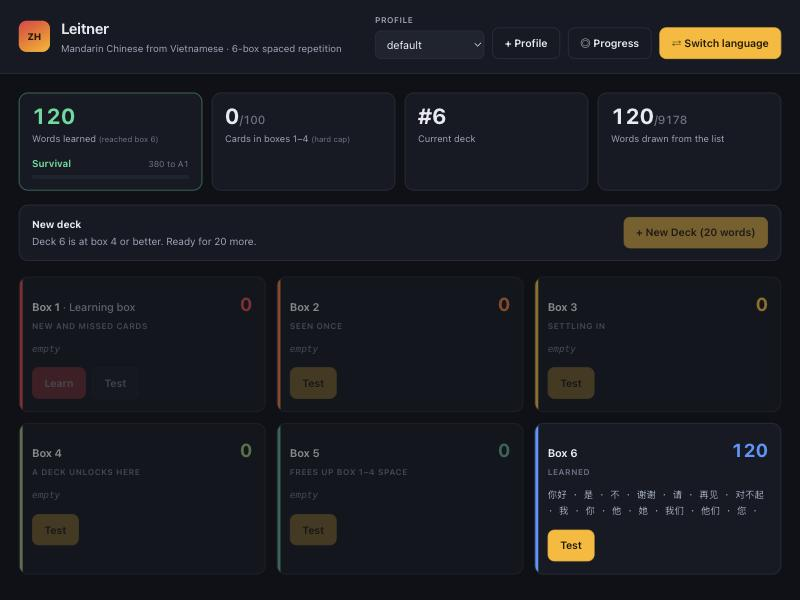
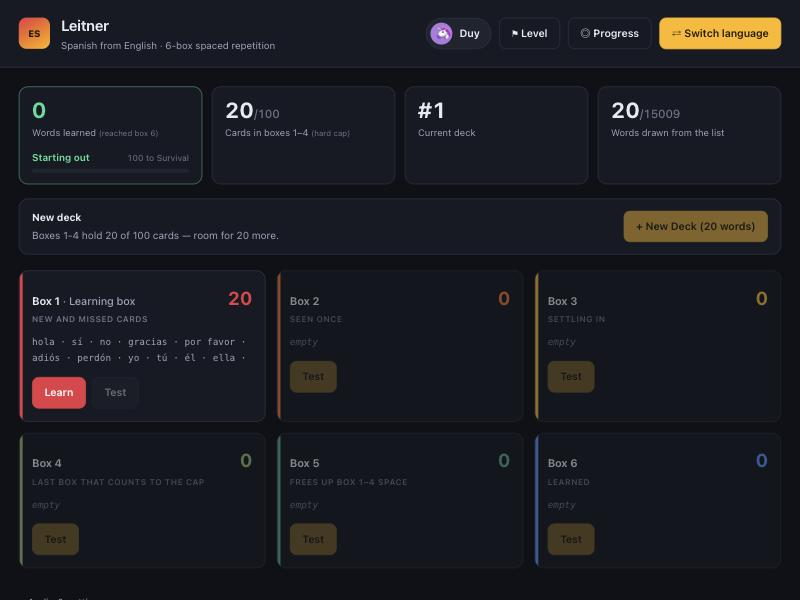
Let the 100-card cap be the only gate on a new deck
New Deck also required every card of the current deck to have reached
box 4. With one deck of 20 cards sitting in box 1 that left boxes 1-4
at 20 of 100 and the button still disabled, which reads as broken: the
cap says there is room, the button says there is not.

Drop the box-4 requirement. A new deck is offered whenever boxes 1-4
hold fewer than 100 cards, and the bar says how much room is left.

The cap stays hard. A deck is trimmed rather than allowed to cross it,
so after retiring three cards from a full set the next deck is three
words, not twenty, and the button says so.

This widens what the app allows: five decks can now be loaded straight
into box 1 without learning any of them. The cap still forces promotion
before a sixth, so the brake is intact - it just sits in one place
instead of two.

Box 4's label changes from "a deck unlocks here", which is no longer
true, to what it now does: the last box counting towards the cap.

Tests at 171, including the trimmed-deck boundary.

diff --git a/static/app.js b/static/app.js
@@ -11,7 +11,7 @@
     1: ["Learning box", "new and missed cards"],
     2: ["", "seen once"],
     3: ["", "settling in"],
-    4: ["", "a deck unlocks here"],
+    4: ["", "last box that counts to the cap"],
     5: ["", "frees up box 1–4 space"],
     6: ["", "learned"]
   };
@@ -602,6 +602,8 @@
 
     $("deck-reason").textContent = s.deck.reason;
     $("btn-new-deck").disabled = !s.deck.can_new_deck;
+    $("btn-new-deck").textContent = "+ New Deck (" +
+      (s.deck.next_size || s.deck.size) + " words)";
 
     var wrap = $("boxes");
     wrap.innerHTML = "";
@@ -877,7 +879,7 @@
   $("btn-new-deck").onclick = function () {
     api("/api/new_deck", { method: "POST", body: {} }).then(function (s) {
       render(s);
-      toast("Deck " + s.deck.number + " loaded — " + s.config.deck_size +
+      toast("Deck " + s.deck.number + " loaded — " + s.deck.last_size +
             " new words in box 1.");
     }).catch(function (e) { toast(e.message); });
   };

diff --git a/app.py b/app.py
@@ -27,7 +27,7 @@ CONCEPTS_PATH = os.path.join(HERE, "data", "concepts.json")
 
 DECK_SIZE = 20          # cards drawn per deck
 ACTIVE_CAP = 100        # hard cap on cards sitting in boxes 1-4
-NEW_DECK_MIN_BOX = 4    # every card of the current deck must reach this box
+ACTIVE_MAX_BOX = 4      # boxes 1..4 count towards that cap
 BOXES = 6
 LEARNED_BOX = 6
 SCHEMA_VERSION = 4
@@ -499,7 +499,7 @@ def build_state(prof, sess):
         "config": {
             "deck_size": DECK_SIZE,
             "active_cap": ACTIVE_CAP,
-            "new_deck_min_box": NEW_DECK_MIN_BOX,
+            "active_max_box": ACTIVE_MAX_BOX,
             "boxes": BOXES,
         },
     }
@@ -521,35 +521,31 @@ def build_state(prof, sess):
         })
 
     current_deck = sess["deck_count"]
-    deck_rows = [r for r in rows if r["deck"] == current_deck]
-    active = [r for r in rows if r["box"] <= NEW_DECK_MIN_BOX]
+    active = [r for r in rows if r["box"] <= ACTIVE_MAX_BOX]
     unlearned_box1 = [r for r in rows if r["box"] == 1 and not r["seen_in_learn"]]
 
     pool = pair_pool(learn, sess["know_lang"])
     words_left = sess["next_index"] < len(pool)
-    deck_ready = bool(deck_rows) and all(r["box"] >= NEW_DECK_MIN_BOX for r in deck_rows)
-    room = len(active) + DECK_SIZE <= ACTIVE_CAP
+    # The cap is the only brake: while boxes 1-4 hold fewer than ACTIVE_CAP
+    # cards there is room for more, and a deck is trimmed so the cap is never
+    # crossed.
+    room = max(0, ACTIVE_CAP - len(active))
+    next_deck = min(DECK_SIZE, room)
 
-    if current_deck == 0:
-        reason = "Load your first deck of %d words to begin." % DECK_SIZE
-        can_new_deck = words_left
-    elif not words_left:
+    if not words_left:
         reason = ("You have reached the end of the %d words available for %s."
                   % (len(pool), session_json(sess)["label"]))
         can_new_deck = False
-    elif not deck_ready:
-        behind = sum(1 for r in deck_rows if r["box"] < NEW_DECK_MIN_BOX)
-        reason = ("%d card%s of deck %d still below box %d."
-                  % (behind, "" if behind == 1 else "s", current_deck, NEW_DECK_MIN_BOX))
+    elif room == 0:
+        reason = ("Boxes 1-4 are full at %d cards. Promote some into box 5 or 6 "
+                  "to make room." % ACTIVE_CAP)
         can_new_deck = False
-    elif not room:
-        reason = ("Boxes 1-4 hold %d of %d cards. Promote %d more into box 5 or 6 "
-                  "to make room for a new deck."
-                  % (len(active), ACTIVE_CAP, len(active) + DECK_SIZE - ACTIVE_CAP))
-        can_new_deck = False
+    elif current_deck == 0:
+        reason = "Load your first deck of %d words to begin." % next_deck
+        can_new_deck = True
     else:
-        reason = ("Deck %d is at box %d or better. Ready for %d more."
-                  % (current_deck, NEW_DECK_MIN_BOX, DECK_SIZE))
+        reason = ("Boxes 1-4 hold %d of %d cards — room for %d more."
+                  % (len(active), ACTIVE_CAP, next_deck))
         can_new_deck = True
 
     learned = session_learned(sid)
@@ -561,6 +557,7 @@ def build_state(prof, sess):
         "deck": {
             "number": current_deck,
             "size": DECK_SIZE,
+            "next_size": next_deck,
             "can_new_deck": can_new_deck,
             "reason": reason,
         },
@@ -706,9 +703,13 @@ def api_new_deck():
     # already seen. Placement and a manual level change both move the start
     # point, possibly backwards, so a plain slice could hand out duplicates
     # and silently produce a short deck.
+    active_now = conn.execute(
+        "SELECT COUNT(*) FROM card WHERE session_id = ? AND retired = 0 AND box <= ?",
+        (sess["id"], ACTIVE_MAX_BOX)).fetchone()[0]
+    want = min(DECK_SIZE, max(0, ACTIVE_CAP - active_now))
     start = sess["next_index"]
     chunk, i = [], start
-    while i < len(pool) and len(chunk) < DECK_SIZE:
+    while i < len(pool) and len(chunk) < want:
         if pool[i] not in have:
             chunk.append(pool[i])
         i += 1
@@ -721,7 +722,9 @@ def api_new_deck():
     conn.execute("UPDATE session SET next_index = ?, deck_count = ?, last_used = ?"
                  " WHERE id = ?", (i, deck_no, now(), sess["id"]))
     conn.commit()
-    return jsonify(build_state(prof, get_session(prof, sess["id"])))
+    out = build_state(prof, get_session(prof, sess["id"]))
+    out["deck"]["last_size"] = len(chunk)
+    return jsonify(out)
 
 
 @app.route("/api/learn")

diff --git a/tests/test_rules.py b/tests/test_rules.py
@@ -202,7 +202,7 @@ post("/api/answer", {"concept_id": ids[0], "answer": "nope"})
 s = j(c.get("/api/state" + S))
 check("only the missed card drops", s["boxes"][2]["count"] == 2, s["boxes"][2]["count"])
 
-print("\n== new-deck gate and the 100-card cap ==")
+print("\n== new-deck gate: the 100-card cap is the only brake ==")
 def answer_right(cid):
     post("/api/answer", {"concept_id": cid, "answer": A.CONCEPT_BY_ID[cid]["vi"][0]})
 
@@ -222,24 +222,44 @@ def promote_to(box):
     return j(c.get("/api/state" + S))
 
 s = j(c.get("/api/state" + S))
-check("blocked while deck 1 below box 4", s["deck"]["can_new_deck"] is False, s["deck"]["reason"])
-s = promote_to(4)
-check("deck 1 all at box 4", s["boxes"][3]["count"] == 20, [b["count"] for b in s["boxes"]])
-check("new deck allowed", s["deck"]["can_new_deck"] is True, s["deck"]["reason"])
+check("a fresh deck 1 does NOT block the next deck",
+      s["deck"]["can_new_deck"] is True, s["deck"]["reason"])
+check("the reason talks about the cap, not boxes",
+      "100" in s["deck"]["reason"], s["deck"]["reason"])
 
+# fill to the cap without promoting anything: cards stay in box 1
 for _ in range(4):
     post("/api/new_deck")
-    cs = j(c.get("/api/learn" + S))["cards"]
-    post("/api/learn/complete", {"concept_ids": [x["concept_id"] for x in cs]})
-    s = promote_to(4)
-check("100 cards active", s["active_count"] == 100, s["active_count"])
+s = j(c.get("/api/state" + S))
+check("four more decks load straight away", s["active_count"] == 100, s["active_count"])
+check("nothing had to be promoted to get there",
+      s["boxes"][0]["count"] >= 95, [b["count"] for b in s["boxes"]])
 check("cap blocks a new deck", s["deck"]["can_new_deck"] is False, s["deck"]["reason"])
 check("reason points at box 5", "box 5" in s["deck"]["reason"], s["deck"]["reason"])
-check("POST new_deck refused", c.post("/api/new_deck", json={"session": zh_id}).status_code == 409)
+check("POST new_deck refused",
+      c.post("/api/new_deck", json={"profile": PROF, "session": zh_id}).status_code == 409)
 
+# a deck is trimmed rather than crossing the cap
+cs = j(c.get("/api/learn" + S))["cards"]
+post("/api/learn/complete", {"concept_ids": [x["concept_id"] for x in cs]})
+for x in cs[:3]:
+    post("/api/retire", {"concept_id": x["concept_id"]})
+s = j(c.get("/api/state" + S))
+check("retiring three makes room for exactly three",
+      s["active_count"] == 97 and s["deck"]["next_size"] == 3,
+      (s["active_count"], s["deck"]["next_size"]))
+r = post("/api/new_deck")
+check("a partial deck is drawn", r["deck"]["last_size"] == 3, r["deck"]["last_size"])
+check("the cap is never crossed", r["active_count"] == 100, r["active_count"])
+
+# box 1's Test is still gated on Learn, so walk the new cards through first
+cs = j(c.get("/api/learn" + S))["cards"]
+post("/api/learn/complete", {"concept_ids": [x["concept_id"] for x in cs]})
 s = promote_to(5)
-check("boxes 1-4 empty", s["active_count"] == 0, s["active_count"])
+check("boxes 1-4 empty once promoted", s["active_count"] == 0,
+      [b["count"] for b in s["boxes"]])
 check("new deck allowed again", s["deck"]["can_new_deck"] is True)
+check("and offers a full deck", s["deck"]["next_size"] == 20, s["deck"]["next_size"])
 
 print("\n== learned counter ==")
 s = promote_to(6)
@@ -384,7 +404,8 @@ lv = j(c.post("/api/level", json={"profile": PROF, "session": psid, "words": 0})
 check("manual level moves the start point back", lv["session"]["placement"] == 0)
 check("and resets where decks are drawn", lv["session"]["used"] == 0)
 
-# clear deck 1 to box 4 so a second deck is allowed
+# the second deck no longer needs deck 1 promoted; walk Learn anyway so the
+# session is in a realistic state
 cs = j(c.get("/api/learn" + PS))["cards"]
 c.post("/api/learn/complete", json={"profile": PROF, "session": psid,
                                     "concept_ids": [x["concept_id"] for x in cs]})

diff --git a/README.md b/README.md
@@ -95,14 +95,13 @@ back from a higher box don't re-lock it — you've already seen them.
 **One wrong answer moves one card.** Missing a card in box 4 sends *that card* to box 1;
 everything else in box 4 stays put.
 
-**New Deck** loads the next 20 words, and unlocks when both of these hold:
+**New Deck** loads the next 20 words whenever **boxes 1–4 hold fewer than 100 cards**. That
+cap is the only brake, and it is a hard one: five decks of 20 fill the allowance, and the only
+way to make room is to promote cards into boxes 5 and 6 — that is, to actually learn them. The
+New Deck bar always says how much room is left.
 
-1. every card of your current deck has reached **box 4 or higher**, and
-2. boxes 1–4 together hold **no more than 100 cards**.
-
-The second rule is the brake: five decks of 20 fill the allowance, and the only way to make
-room is to promote cards into boxes 5 and 6 — that is, to actually learn them. The New Deck
-bar always says which condition is holding you up.
+A deck is trimmed rather than allowed to cross the cap, so with 97 cards in play the next deck
+is three words, not twenty.
 
 **Retire this card** sits under each test verdict, for when a translation is wrong or
 useless. The card leaves that session for good; the word table isn't touched.
@@ -338,7 +337,7 @@ Settings worth knowing, at the top of `app.py`:
 ```python
 DECK_SIZE = 20          # cards drawn per deck
 ACTIVE_CAP = 100        # hard cap on cards in boxes 1-4
-NEW_DECK_MIN_BOX = 4    # every deck card must reach this box
+ACTIVE_MAX_BOX = 4      # boxes 1..4 count towards that cap
 MILESTONES = (20, 50, 100, 200, 500, 1000, 2000, 5000, 10000)
 LEVELS = (...)          # words -> CEFR band
 PLACEMENT_QUESTIONS = 20
@@ -355,7 +354,7 @@ LANGUAGES = {...}       # code -> display name, native name, speech-synthesis ta
 python3 tests/test_rules.py
 ```
 
-167 checks against a throwaway database: the concept table and every language pair, grading in
+171 checks against a throwaway database: the concept table and every language pair, grading in
 all four languages (including Vietnamese tone-stripping and Mandarin pinyin), session creation
 and isolation, the Learn gate, promotion and demotion, the new-deck gate, the 100-card cap,
 the learned counter, proficiency levels, milestone unlocking and dates, the text sent to
